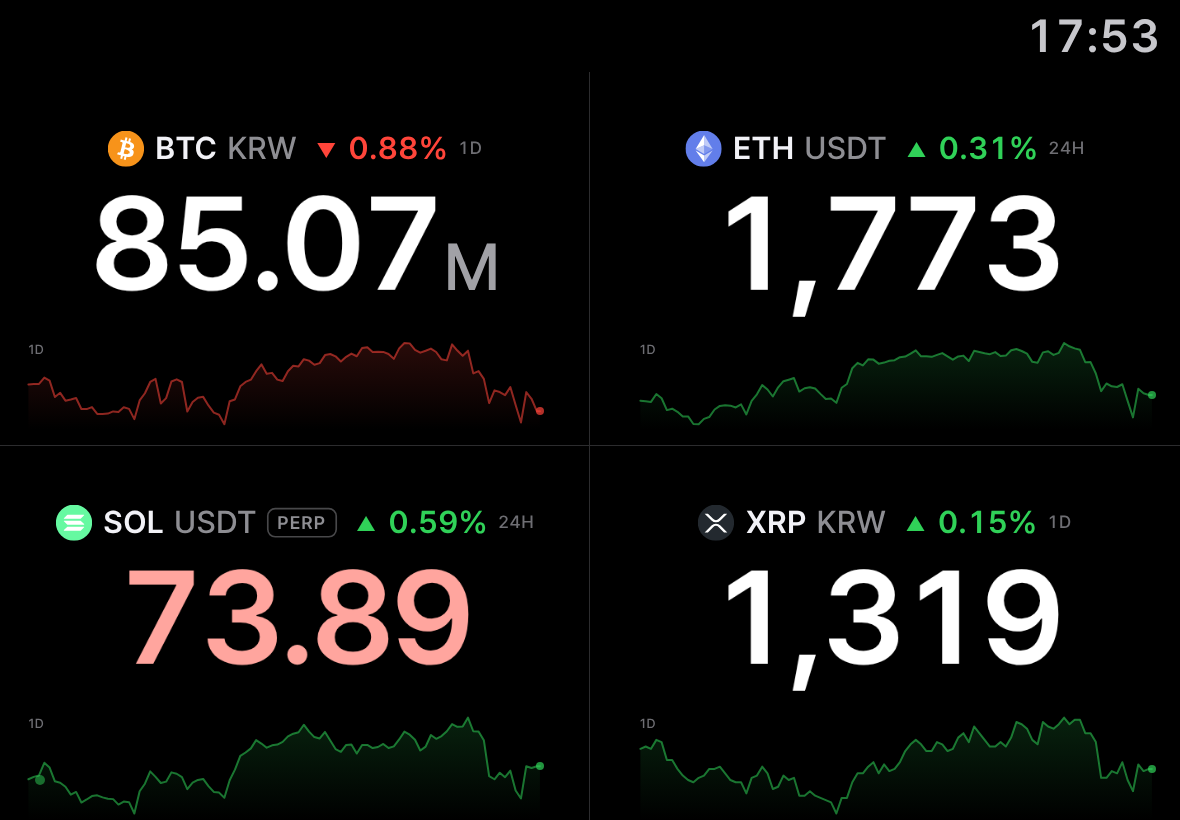
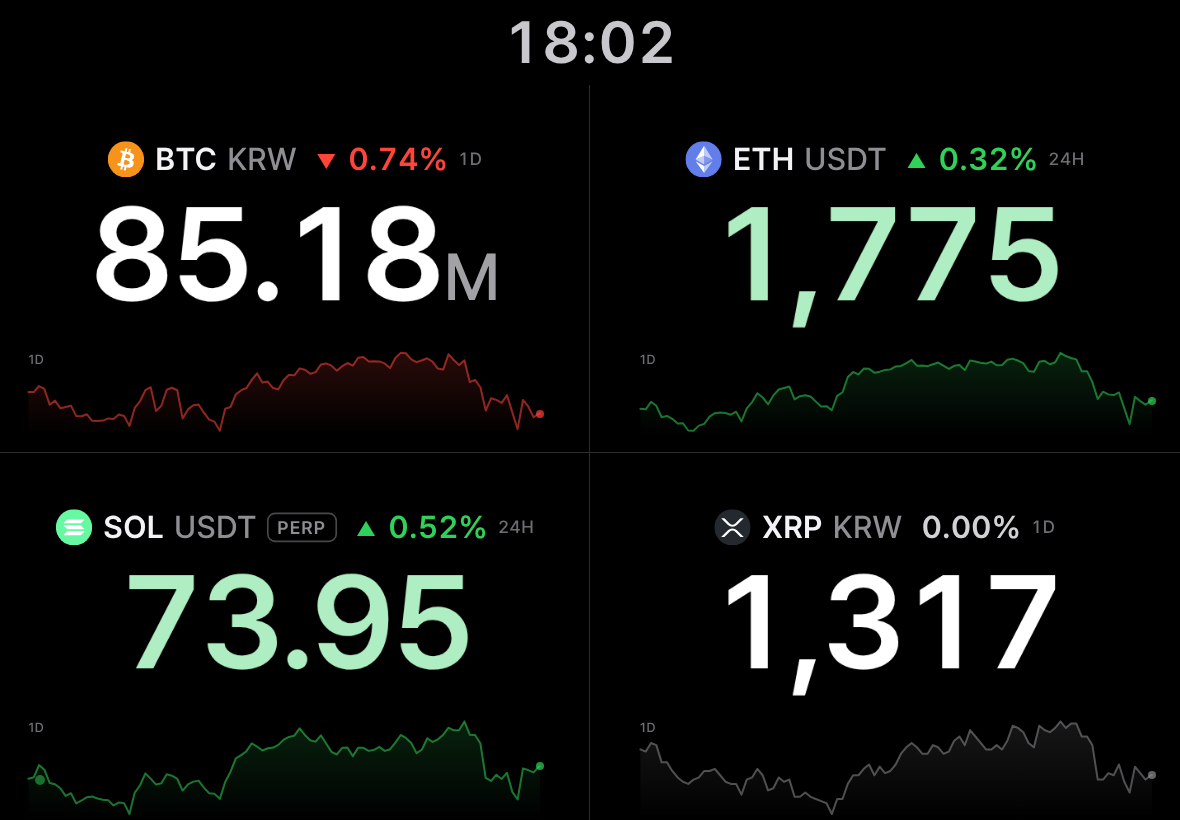
The clock moves to the top centre and grows again (0.28.2) (#58)
At its larger size the clock sits better centred at the top than in the
corner, and it is larger again: 7.2% of the screen's short side, 26 to
84px (about 59px on an iPad in landscape). In the grid the band above the
cells grows with it, so the vertical line between cells does not reach it.
Measured on seven screens, every coin line and price stays 31px or more
below it. Tests, guide, development notes and screenshots follow.

Claude-Session: https://claude.ai/code/session_014Sd3YL2WJ32HMbCc4VV95J

diff --git a/tests/e2e/run.js b/tests/e2e/run.js
@@ -1253,14 +1253,15 @@ async function lockedStorage(browser, base) {
 }
 
 async function clockShown(browser, base) {
-  // The time in the top-right corner, from the device's own clock and time zone, renewed on the minute; switched off in settings.
+  // The time at the top centre, from the device's own clock and time zone, renewed on the minute; switched off in settings.
   const context = await browser.newContext({ viewport: { width: 1180, height: 820 }, timezoneId: 'Asia/Seoul' }); await scripted(context);
   const page = await context.newPage(); const problems = watch(page);
   await page.clock.install({ time: new Date('2026-11-19T14:32:50+09:00') });
   await page.goto(base); await live(page);
   assert.equal(await text(page, '#clock'), '14:32');
-  const box = await page.locator('#clock').boundingBox();
-  assert.ok(box.x + box.width > 1180 - 80 && box.y < 40, 'top-right corner');
+  // Its figures, centred at the top.
+  const box = await page.locator('#clock').evaluate(el => { const range = document.createRange(); range.selectNodeContents(el); const r = range.getBoundingClientRect(); return { x: r.x, y: r.y, width: r.width, height: r.height }; });
+  assert.ok(Math.abs(box.x + box.width / 2 - 1180 / 2) <= 1180 * 0.03 + 2 && box.y < 40, 'top centre');
   const price = await page.locator('#price-main').boundingBox(), head = await page.locator('#board-head').boundingBox();
   assert.ok(box.y + box.height < head.y && box.y + box.height < price.y, 'clear of the coin line and the price');
   await page.clock.runFor(15000);
@@ -1287,7 +1288,7 @@ async function clockShown(browser, base) {
   assert.deepEqual(gridProblems, []);
   assert.deepEqual(problems, []);
   await context.close();
-  console.log('PASS clock: the time in the top-right corner, from the device clock, renewed on the minute, floating with the board, the grid starting below it, switched off and on in settings');
+  console.log('PASS clock: the time at the top centre, from the device clock, renewed on the minute, floating with the board, the grid starting below it, switched off and on in settings');
 }
 
 async function swipeBrightness(browser, base) {

diff --git a/src/app.css b/src/app.css
@@ -119,11 +119,11 @@ body {
    screen (see PriceBoard.svelte), so these are design pixels, not screen pixels. */
 /* Centred in the usable screen, inside any notch or system bar. */
 #stage { position: fixed; inset: var(--safe-top) var(--safe-right) var(--safe-bottom) var(--safe-left); display: flex; justify-content: center; align-items: center; overflow: hidden; }
-/* The clock: the top-right corner of the board, in a quiet grey that still
-   reads across a room. Its size follows the screen's short side. */
-#stage { --clock-size: clamp(22px, 5.6vmin, 64px); --clock-top: 1.6vmin; }
+/* The clock: centred at the top of the board, in a grey that reads across a
+   room. Its size follows the screen's short side. */
+#stage { --clock-size: clamp(26px, 7.2vmin, 84px); --clock-top: 1.6vmin; }
 #clock {
-  position: absolute; top: var(--clock-top); right: 2.4vmin; z-index: 2;
+  position: absolute; top: var(--clock-top); left: 0; right: 0; text-align: center; z-index: 2;
   font-size: var(--clock-size); font-weight: 600; line-height: 1; letter-spacing: 0.02em;
   font-variant-numeric: tabular-nums; color: #c7c7cc;
   transition: transform 60s linear; pointer-events: none;

diff --git a/src/lib/settings.js b/src/lib/settings.js
@@ -37,7 +37,7 @@ function readAssets(list) {
 export function createSettings(storage) {
   // columns: cells per row in the grid; 0 lets the board choose (see PriceBoard).
   // chart: the period of the chart behind the board ("off" for none).
-  // clock: the time, small, in the board's top-right corner.
+  // clock: the time, centred at the top of the board.
   const settings = { assets: [{ ...DEFAULT_ASSET }], columns: 0, brightness: 100, burnIn: true, palette: "green-red", chart: "1d", clock: true };
   try {
     const saved = JSON.parse(storage.getItem(KEY));

diff --git a/src/components/PriceBoard.svelte b/src/components/PriceBoard.svelte
@@ -293,7 +293,7 @@
       {/if}
     </div>
   </div>
-  <!-- The time, small and quiet in the top-right corner. It floats with the
+  <!-- The time, centred at the top. It floats with the
        board against burn-in, and is dimmed with it. -->
   {#if settings.clock}
     <time id="clock" style:transition={gliding ? null : 'none'} style:transform="translate({offset.x}px, {offset.y}px)">{now}</time>

diff --git a/docs/guide.ko.md b/docs/guide.ko.md
@@ -162,7 +162,7 @@ Coinboard는 코인 시세를 크게 띄워 두는 전광판입니다. 아이패
 
 **그래프**: 기간 동안의 가격을 화면(여러 자산이면 칸) 아래쪽 배경에 옅은 선과 채움으로 그립니다. 가격 글자를 가리지 않도록 가격 아래쪽에 깔립니다. **끔**, **15분**, **1시간**, **1일**(기본), **1주**, **1달** 중에서 고릅니다. 거래소의 과거 시세(봉)로 그리고 마지막 점은 실시간 가격입니다. 색은 위의 등락률과 같습니다(등락 색 설정을 따름). 그래프 끝의 작은 점이 실시간 가격이고, 가격이 바뀔 때마다 이 점에서 파동이 퍼집니다. 많이 움직일수록 크고 오래 퍼집니다. 그래프 모양과 등락률의 기준 시점이 조금 달라도 색이 서로 어긋나지 않습니다. 전광판에는 기간이 그래프 왼쪽 위에 `15M`, `1H`, `1D`, `7D`, `30D`로 적힙니다. 업비트·빗썸의 등락률은 전일 종가 대비이고 `1D` 그래프는 최근 24시간이라, 둘의 방향이 다를 수 있습니다. 과거 시세를 받을 수 없는 경우(차단 지역의 바이낸스 선물·바이비트 등)에는 그래프가 나오지 않습니다. 코인원은 과거 시세를 웹페이지에 내주지 않아 그래프가 없습니다. 업비트는 브라우저의 요청을 10초에 한 번만 받기 때문에, 업비트 그래프는 시세가 뜬 뒤 10초 남짓 간격으로 하나씩 나타납니다.
 
-**시계**: 전광판 오른쪽 위 구석에 지금 시각을 `14:32`처럼 24시간제로 멀리서도 읽히는 크기로 보여 줍니다(기기 시계와 시간대를 따름). 여러 자산을 띄우면 칸들이 시계 아래에서 시작해 겹치지 않습니다. 1분마다 바뀌고, 번인 방지가 켜져 있으면 전광판과 함께 조금씩 움직이며, 밝기를 낮추면 함께 어두워집니다. 기본으로 켜져 있고, 여기서 끌 수 있습니다.
+**시계**: 전광판 위쪽 가운데에 지금 시각을 `14:32`처럼 24시간제로 멀리서도 읽히는 크기로 보여 줍니다(기기 시계와 시간대를 따름). 여러 자산을 띄우면 칸들이 시계 아래에서 시작해 겹치지 않습니다. 1분마다 바뀌고, 번인 방지가 켜져 있으면 전광판과 함께 조금씩 움직이며, 밝기를 낮추면 함께 어두워집니다. 기본으로 켜져 있고, 여기서 끌 수 있습니다.
 
 **등락 색**: 실제 색으로 그린 견본 두 개 중에서 누릅니다. `초록 · 빨강`(상승 초록, 하락 빨강) 또는 한국식 `빨강 · 파랑`(상승 빨강, 하락 파랑).
 

diff --git a/docs/development.md b/docs/development.md
@@ -44,7 +44,7 @@ Svelte 5 and Vite. It is a single page, so there is no SvelteKit.
 | `src/lib/pace.js` | Spacing of requests to an exchange (shared by price connections and coin lists) |
 | `src/lib/steady.js` | One three-second beat for the whole board |
 | `src/lib/history.js` | Past prices for the line chart: the period's candle size, asking each exchange (`candles` in its definition) in turn with its price connection (the pacer: Upbit refuses a browser's second request within 10 seconds, candles included), at most every 10 minutes; `extend` carries a chart along with the live price in between |
-| Clock (`#clock` in `PriceBoard.svelte`) | The time in the top-right corner: the device's clock and time zone, 24-hour, renewed on the minute. It takes the board's float and sits under the brightness veil. Its size is 5.6% of the screen's short side (22-64px). In the grid, cells and the chart layer start below a band as tall as the clock (`--clock-band`). Setting `clock` (on by default) |
+| Clock (`#clock` in `PriceBoard.svelte`) | The time, centred at the top: the device's clock and time zone, 24-hour, renewed on the minute. It takes the board's float and sits under the brightness veil. Its size is 7.2% of the screen's short side (26-84px). In the grid, cells and the chart layer start below a band as tall as the clock (`--clock-band`). Setting `clock` (on by default) |
 | `src/lib/swipe-brightness.js` | Brightness by swiping: one finger drawn up brightens, down dims (60% of the screen's height is the whole 10-100% range, in steps of 5), shown as a sun and the level on a soft shade in the middle (`#brightness-hud`, not dimmed with the board, and covering nothing else, so the board shows the brightness it will keep). It starts after 8px, and not for a mostly sideways drag; a second finger or a cancelled touch puts the brightness back; a drag that starts on the controls or the panel is not one. Zoom is refused with `touch-action: none` (the panel `pan-y`), a `user-scalable=no` viewport, and iOS's `gesturestart` refused. Brightness itself is the opacity of a black veil over the board (`#dim`), not a filter, so changing it redraws nothing |
 | `src/components/Spark.svelte` | The line chart behind the lower board |
 | `src/lib/move.js` | The size of a price move (faint, normal, full tint) |

diff --git a/docs/guide.md b/docs/guide.md
@@ -162,7 +162,7 @@ Switched off, the board looks as it always did.
 
 **Chart**: the price over a period, as a faint line and fill across the lower part of the screen (of each cell, with several assets), below the price so as not to cover it: **Off**, **15m**, **1h**, **1d** (the default), **1w** or **1mo**. It is drawn from the exchange's own candles and ends at the live price; it takes the color of the change above it (in the up/down colors chosen), and a small point at its end marks the live price, sending out a ring each time the price changes, wider and longer the bigger the move; so the two never disagree even where the chart's period and the change's reference differ a little. The board writes the period at the chart's top left: `15M`, `1H`, `1D`, `7D`, `30D`. On Upbit and Bithumb the change is against the previous day's close while a `1D` chart covers the last 24 hours, so the two can point different ways. Where an exchange's past prices cannot be had (Binance futures or Bybit in a restricted region), its chart is simply not shown. Coinone does not give web pages its past prices, so its coins have no chart. Upbit lets a browser ask it something only once every ten seconds, so Upbit charts appear one by one, about ten seconds apart, after the prices.
 
-**Clock**: the time in the board's top-right corner, in 24-hour form (`14:32`), large enough to read across a room, from the device's own clock and time zone. With several assets the cells start below it. It changes on the minute, floats with the board when burn-in protection is on, and dims with it. On by default; switch it off here.
+**Clock**: the time centred at the top of the board, in 24-hour form (`14:32`), large enough to read across a room, from the device's own clock and time zone. With several assets the cells start below it. It changes on the minute, floats with the board when burn-in protection is on, and dims with it. On by default; switch it off here.
 
 **Up/Down Colors**: two samples drawn in their own colors: **Green · Red** (up green, down red) or the Korean convention **Red · Blue** (up red, down blue).
 
